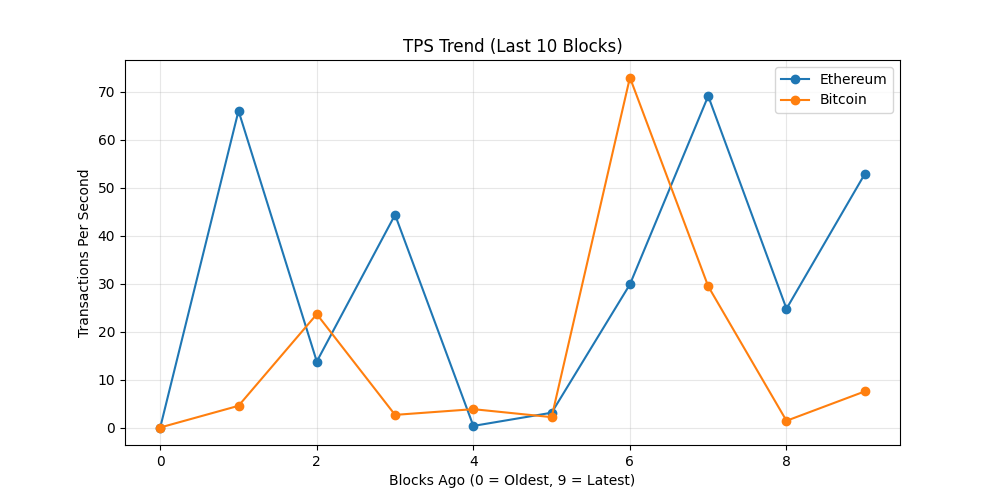
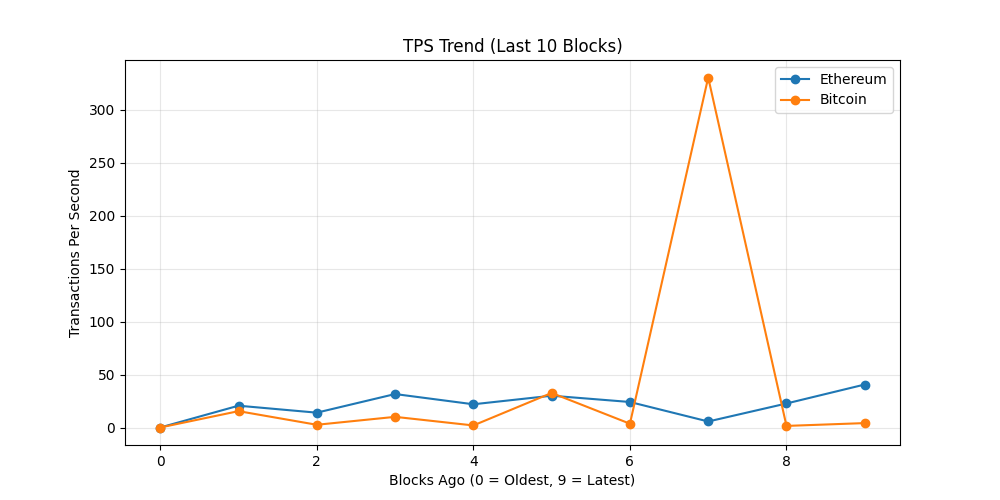
chore: update on-chain dashboard

diff --git a/README.md b/README.md
@@ -19,7 +19,7 @@ The README itself acts as the dashboard and is regenerated automatically on a 6 
 demonstrating a production-style, infrastructure-focused observability workflow rather
 than a traditional UI-driven approach.
 
-_Last updated: 2026-05-03 08:15 UTC_
+_Last updated: 2026-05-03 13:48 UTC_
 
 ## API Usage (GetBlock.io)
 - Calls used: **24**
@@ -27,8 +27,8 @@ _Last updated: 2026-05-03 08:15 UTC_
 ## Network Metrics
 | Chain | Block Height | TX Count | TPS (10 blk avg) | Block Util | Avg Fee |
 |------|-------------|----------|------------------|------------|---------|
-| Ethereum | 25013199 | 634 | 52.83 | 74.02% | 0.1 Gwei |
-| Bitcoin | 947691 | 2001 | 7.52 | 99.8% | N/A |
+| Ethereum | 25014866 | 487 | 40.58 | 58.75% | 0.1 Gwei |
+| Bitcoin | 947721 | 3512 | 4.16 | 99.79% | N/A |
 
 ## Visuals
 ### Transactions Trend
@@ -43,9 +43,11 @@ _Last updated: 2026-05-03 08:15 UTC_
 ## Whale Alerts (latest block)
 - Transaction hashes are truncated for readability.
 - Full hashes are available in `dashboards/metrics.json`
-- Bitcoin | 418.49 BTC | `40aa98888eb3…`
-- Bitcoin | 252.18 BTC | `848110f1e410…`
-- Bitcoin | 117.6 BTC | `831198979c5d…`
+- Bitcoin | 474.88 BTC | `6d0f119b5842…`
+- Bitcoin | 205.81 BTC | `2138d58d6e70…`
+- Bitcoin | 111.83 BTC | `e7275c1967cc…`
+- Bitcoin | 185.79 BTC | `44d2a39fbba9…`
+- Bitcoin | 116.71 BTC | `25631145eef5…`
 
 ## Run locally
 
